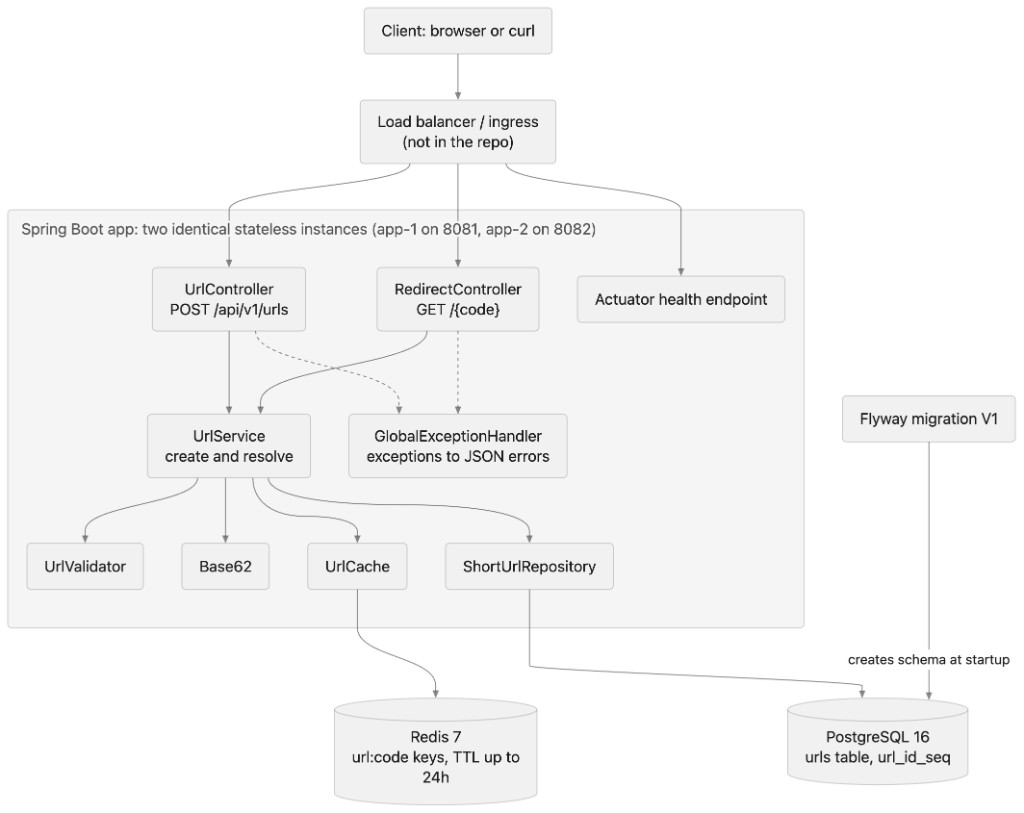
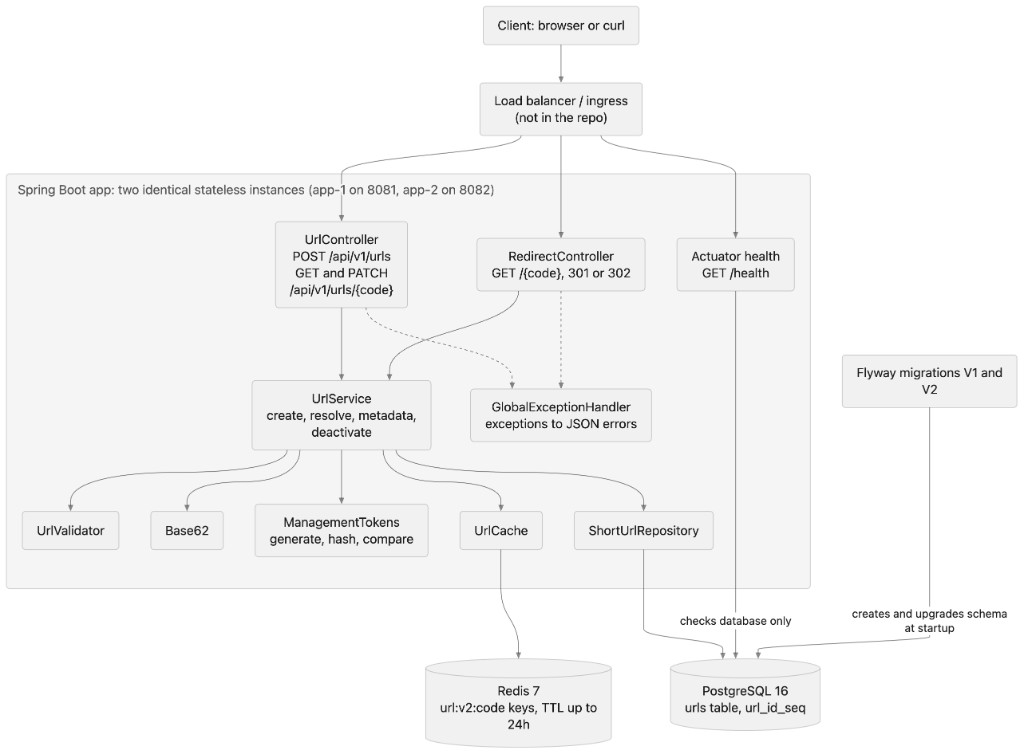
Update high-level design diagram for link management.
The diagram now shows metadata and deactivation routes, 301 or 302 redirects, ManagementTokens, url:v2 cache keys, and Flyway V2. The README design notes match it.

diff --git a/README.md b/README.md
@@ -39,13 +39,15 @@ Both stateless Spring Boot instances use the same PostgreSQL database and Redis 
 
 ## High-level design
 
-![High-level design: client, load balancer, two Spring Boot instances, Redis, PostgreSQL, and Flyway](docs/images/high-level-design.jpg)
+![High-level design: client, load balancer, two Spring Boot instances with controllers, UrlService, ManagementTokens, UrlCache, and ShortUrlRepository, plus Redis, PostgreSQL, and Flyway V1 and V2](docs/images/high-level-design.jpg)
 
-- **Create** (`POST /api/v1/urls`): `UrlController` calls `UrlService`, which validates the request with `UrlValidator`, takes the next `url_id_seq` value, encodes it with `Base62`, and inserts through `ShortUrlRepository`. A code that is already taken is skipped by the database (`ON CONFLICT DO NOTHING`), not by an exception.
-- **Redirect** (`GET /{code}`): `RedirectController` calls `UrlService`, which reads `UrlCache` (Redis) first and falls back to PostgreSQL on a miss or Redis failure. Each successful redirect increments `click_count` atomically in PostgreSQL.
-- **Errors**: `GlobalExceptionHandler` turns exceptions into consistent JSON errors (`400`, `404`, `409`, `410`, `500`).
+- **Create** (`POST /api/v1/urls`): `UrlController` calls `UrlService`, which validates the request with `UrlValidator`, takes the next `url_id_seq` value, encodes it with `Base62`, and inserts through `ShortUrlRepository`. A code that is already taken is skipped by the database (`ON CONFLICT DO NOTHING`), not by an exception. `ManagementTokens` generates the one-time owner token; only its SHA-256 hash is stored.
+- **Redirect** (`GET /{code}`): `RedirectController` calls `UrlService`, which reads `UrlCache` (Redis, `url:v2:<code>` keys) first and falls back to PostgreSQL on a miss or Redis failure. Each successful redirect increments `click_count` atomically in PostgreSQL, only for active, unexpired links, and returns `301` for permanent links or `302` otherwise.
+- **Metadata** (`GET /api/v1/urls/{code}`): `UrlService` reads PostgreSQL in a read-only transaction; it does not count a hit.
+- **Deactivate** (`PATCH /api/v1/urls/{code}`): `UrlService` checks the Bearer token with `ManagementTokens`, sets `active = false` in PostgreSQL, and evicts the Redis entry.
+- **Errors**: `GlobalExceptionHandler` turns exceptions into consistent JSON errors (`400`, `401`, `403`, `404`, `409`, `410`, `500`).
 - **Health** (`GET /health`): reports PostgreSQL only, because Redis is a fail-open cache.
-- **Schema**: Flyway applies `V1__create_urls.sql` at startup; Hibernate only validates it.
+- **Schema**: Flyway applies `V1__create_urls.sql` and `V2__add_link_management.sql` at startup; Hibernate only validates it.
 
 ## Key design decisions
 
